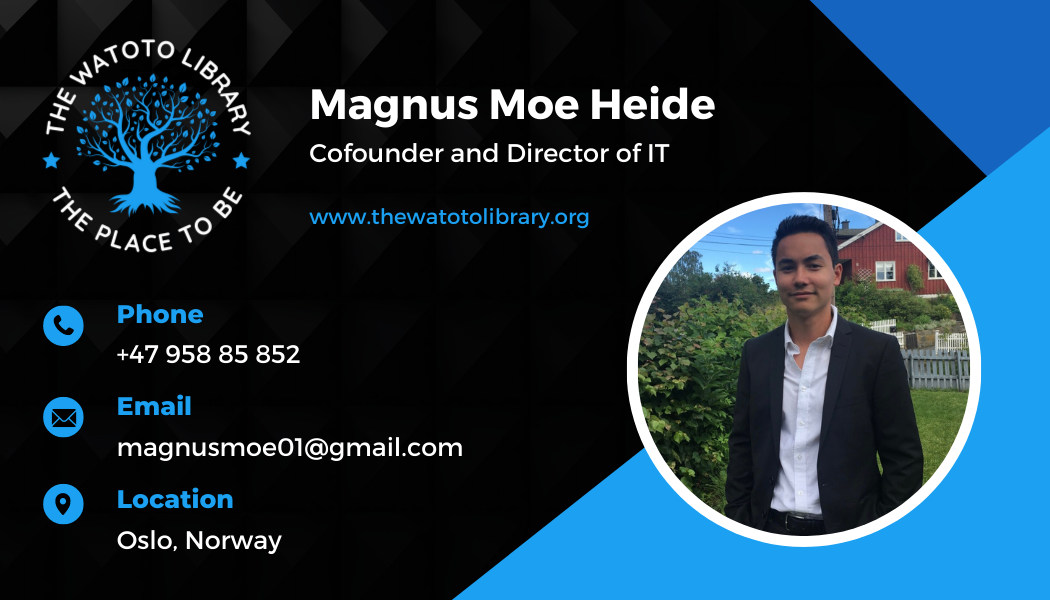
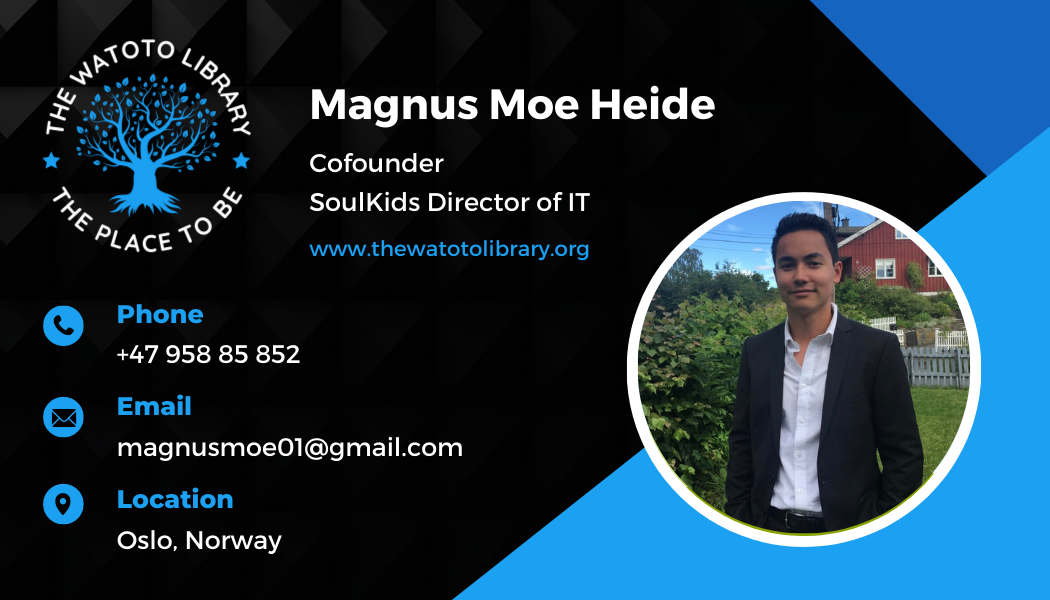
Add files via upload

diff --git a/getInTouch.html b/getInTouch.html
@@ -108,12 +108,12 @@
               </div>
 
               <div class="column">
-                  <div class="card">
+                  <div class="card" onclick="changeToSandra(), openPopup()">
                     <img src="media/team/sandra-reduced.jpeg" alt="Sandra" style="width:100%">
                     <div class="container">
                       <h2>Sandra Kanstad</h2>
                       <p class="title">Cofounder<br>Chairman of SoulKids Norway</p>
-                      <p><a class="button-design">Contact</a></p>
+                      <p><a class="button-design">Contact info</a></p>
                     </div>
                   </div>
               </div>
@@ -169,7 +169,8 @@
           <div class="popup-container" id="popup">
             <img src="media/logo/logo-whitebg-transparent.png" class="popup-img">
 
-            <img src="media/team/brandon-businessCard.jpeg" class="img" id="brandonBusinessCard" onclick="changeToBrandon()">
+            <img src="media/team/brandon-businessCard.png" class="img" id="brandonBusinessCard" onclick="changeToBrandon()">
+            <img src="media/team/sandra-businessCard.png" class="img" id="sandraBusinessCard" onclick="changeToSandra()"/>
             <img src="media/team/magnus-businessCard.png" class="img" id="magnusBusinessCard" onclick="changeToMagnus()"/>
 
             <button type="button" onclick="closePopup()">OK</button>
@@ -189,14 +190,30 @@
       let popup = document.getElementById("popup");    
     
     function changeToBrandon() {
-        if (document.getElementById("brandonBusinessCard").src == "media/team/brandon-businessCard.jpeg"){
-            document.getElementById("brandonBusinessCard").src = "media/team/brandon-businessCard.jpeg";
+        if (document.getElementById("brandonBusinessCard").src == "media/team/brandon-businessCard.png"){
+            document.getElementById("brandonBusinessCard").src = "media/team/brandon-businessCard.png";
             magnusBusinessCard.style.display = "none";
+            sandraBusinessCard.style.display = "none";
             brandonBusinessCard.style.display = "block";
         } else {
-            document.getElementById("brandonBusinessCard").src = "media/team/brandon-businessCard.jpeg";
+            document.getElementById("brandonBusinessCard").src = "media/team/brandon-businessCard.png";
             magnusBusinessCard.style.display = "none";
+            sandraBusinessCard.style.display = "none";
             brandonBusinessCard.style.display = "block";
+        }
+    }
+
+    function changeToSandra() {
+        if (document.getElementById("sandraBusinessCard").src == "media/team/sandra-businessCard.png"){
+            document.getElementById("sandraBusinessCard").src = "media/team/sandra-businessCard.png";
+            brandonBusinessCard.style.display = "none";
+            magnusBusinessCard.style.display = "none";
+            sandraBusinessCard.style.display = "block";
+        } else {
+            document.getElementById("sandraBusinessCard").src = "media/team/sandra-businessCard.png";
+            brandonBusinessCard.style.display = "none";
+            magnusBusinessCard.style.display = "none";
+            sandraBusinessCard.style.display = "block";
         }
     }
 
@@ -204,10 +221,12 @@
         if (document.getElementById("magnusBusinessCard").src == "media/team/magnus-businessCard.png"){
             document.getElementById("magnusBusinessCard").src = "media/team/magnus-businessCard.png";
             brandonBusinessCard.style.display = "none";
+            sandraBusinessCard.style.display = "none";
             magnusBusinessCard.style.display = "block";
         } else {
             document.getElementById("magnusBusinessCard").src = "media/team/magnus-businessCard.png";
             brandonBusinessCard.style.display = "none";
+            sandraBusinessCard.style.display = "none";
             magnusBusinessCard.style.display = "block";
         }
     }

diff --git a/donate.html b/donate.html
@@ -94,7 +94,7 @@
       <div class="main" id="main">
         <div class="article">
           <h2>Donate</h2>
-          <p>Lorem ipsum dolor sit amet, consectetur adipisicing elit. Cum repudiandae quaerat rerum perspiciatis veritatis error. Sapiente incidunt sequi libero facilis, repellendus quis accusamus mollitia atque iste ad! Aliquam, fugiat rerum!</p>
+          <p>The Watoto Library is a project registered under SoulKids Norway. Donations to the library will therefore go through SoulKids.</p>
         </div>
         <br>
         <div class="article">
@@ -102,7 +102,7 @@
             <div>
               <h3>Vipps</h3>
               <p>Vippsnr: 692122</p>
-              <p>Please make sure to mark the payment with 'The Watoto Library'</p>
+              <i>Please make sure to mark the payment with 'The Watoto Library'</i>
             </div>
             <img src="media/random/vipps-qr.png" style="margin-left: auto; display: block;">
           </div>
@@ -166,6 +166,9 @@
           <p>Account number: 05396776024</p>
           <p>Electronic/paper IBAN: NO98 0539 6776 024</p>
           <p>Swift: DNBANOKKXXX</p>
+          <i>Please make sure to mark the payment with 'The Watoto Library'</i>
+          <br>
+          <br>
         </div>
         <br>
         <!--

diff --git a/whatWeDo.html b/whatWeDo.html
@@ -118,7 +118,7 @@
         
         <br>
         
-        <div class="article-click" onclick="location.href='articles/studyGroup.html#nhav';" id="studyGroup">
+        <div class="article-click" onclick="location.href='articles/studyGroup.html#nav';" id="studyGroup">
             <div class="flex-image-text">
               <div>
                 <h3>Study Group</h3>

diff --git a/stylesheet.css b/stylesheet.css
@@ -16,7 +16,7 @@
     font-size: 16px;
   }
 
-  p, u, b {
+  p, i, u, b {
     line-height: 30px;
     font-family: Verdana, Tahoma, sans-serif;
   }
